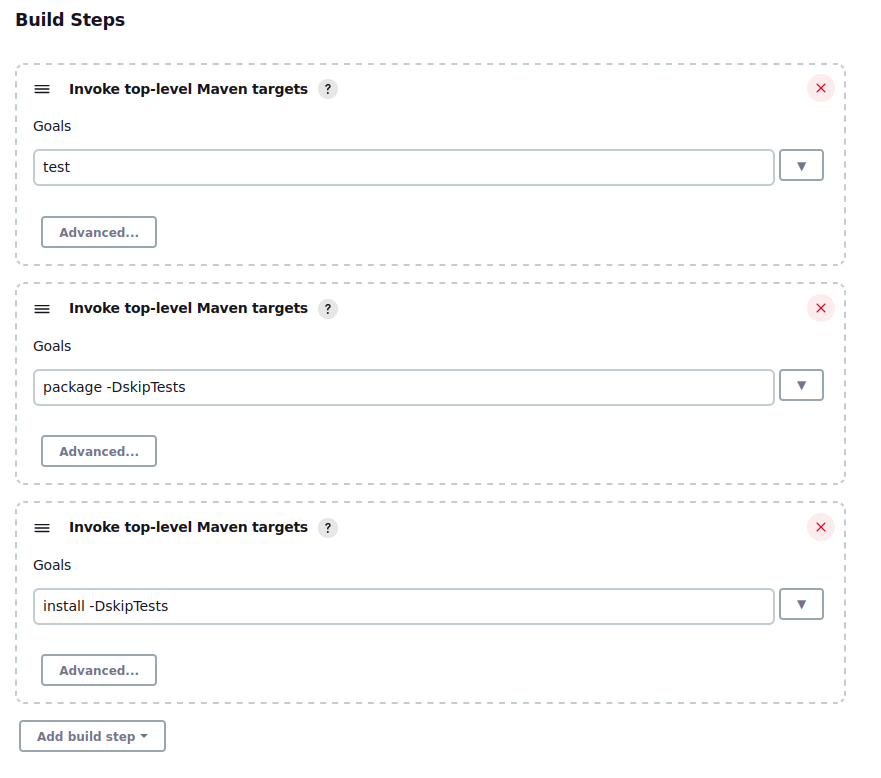
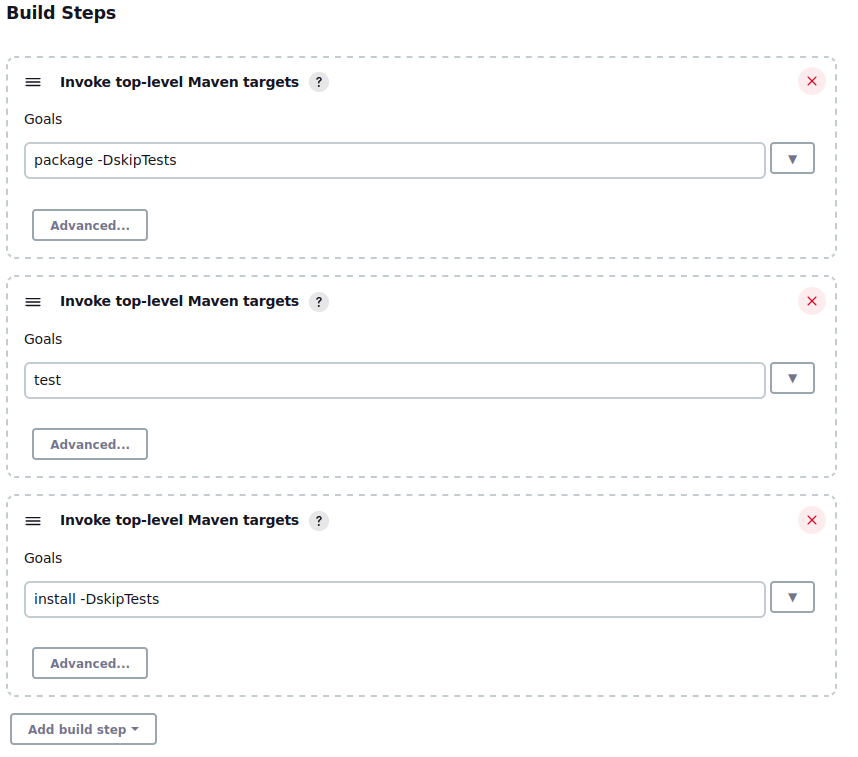
Adding exact translation jenkins maven example
Updating screenshots in example

diff --git a/doc/ci/migration/examples/jenkins-maven.md b/doc/ci/migration/examples/jenkins-maven.md
@@ -56,15 +56,19 @@ If using a declarative pipeline, the configuration might look like:
 ```groovy
 pipeline {
     agent any
+    tools {
+        maven 'maven-3.6.3'
+        jdk 'jdk11'
+    }
     stages {
-        stage('Test') {
-            steps {
-                sh "mvn test"
-            }
-        }
         stage('Build') {
             steps {
                 sh "mvn package -DskipTests"
+            }
+        }
+        stage('Test') {
+            steps {
+                sh "mvn test"
             }
         }
         stage('Install') {
@@ -88,22 +92,84 @@ with the same pipeline configuration.
 
 Prerequisites:
 
-- A GitLab Runner with the Docker executor that can be used by the project.
-  If you are using GitLab.com, you can use the public shared runners.
+- A GitLab Runner with a Shell executor
+- Maven 3.6.3 and Java 11 JDK installed on the shell runner
+
+This example mimics the behavior and syntax of building, testing, and installing on Jenkins.
+
+In a GitLab CI/CD pipeline, the commands run in "jobs", which are grouped into stages.
+The migrated configuration in the `.gitlab-ci.yml` configuration file consists of
+two global keywords (`stages` and `variables`) followed by 3 jobs:
+
+```yaml
+stages:
+  - build
+  - test
+  - install
+
+variables:
+  MAVEN_OPTS: >-
+    -Dhttps.protocols=TLSv1.2
+    -Dmaven.repo.local=$CI_PROJECT_DIR/.m2/repository
+  MAVEN_CLI_OPTS: >-
+    -DskipTests
+
+build-JAR:
+  stage: build
+  script:
+    - mvn $MAVEN_CLI_OPTS package
+
+test-code:
+  stage: test
+  script:
+    - mvn test
+
+install-JAR:
+  stage: install
+  script:
+    - mvn $MAVEN_CLI_OPTS install
+```
+
+In this example:
+
+- `stages` defines three stages that run in order. Like the Jenkins examples above,
+  the test job runs first, followed by the build job, and finally the install job.
+- `variables` defines [CI/CD variables](../../variables/index.md) that can be used by all jobs:
+  - `MAVEN_OPTS` are Maven environment variables needed whenever Maven is executed:
+    - `-Dhttps.protocols=TLSv1.2` sets the TLS protocol to version 1.2 for any HTTP requests in the pipeline.
+    - `-Dmaven.repo.local=$CI_PROJECT_DIR/.m2/repository` sets the location of the
+      local Maven repository to the GitLab project directory on the runner, so the job
+      can access and modify the repository.
+  - `MAVEN_CLI_OPTS` are specific arguments to be added to `mvn` commands:
+    - `-DskipTests` skips the `test` stage in the Maven build lifecycle.
+- `test-code`, `build-JAR`, and `install-JAR` are the user-defined names for the jobs
+  to run in the pipeline:
+  - `stage` defines which stage the job runs in. A pipeline contains one or more stages
+    and a stage contains one or more jobs. This example has three stages, each with a single job.
+  - `script` defines the commands to run in that job, similar to `steps` in a `Jenkinsfile`.
+    Jobs can run multiple commands in sequence, which run in the image container,
+    but in this example the jobs run only one command each.
+
+### Run jobs in Docker containers
 
 Instead of using a persistent machine for handling this build process like the Jenkins samples,
 this example uses an ephemeral Docker container to handle execution. Using a container
 removes the need for maintaining a virtual machine and the Maven version installed on it.
 It also increases flexibility for expanding and extending the functionality of the pipeline.
 
-In a GitLab CI/CD pipeline, the commands run in "jobs", which are grouped into stages.
-The migrated configuration in the `.gitlab-ci.yml` configuration file consists of
-three global keywords (`stages`, `default`, and `variables`) followed by 3 jobs:
+Prerequisites:
+
+- A GitLab Runner with the Docker executor that can be used by the project.
+  If you are using GitLab.com, you can use the public shared runners.
+
+This migrated pipeline configuration consists of three global keywords (`stages`, `default`, and `variables`)
+followed by 3 jobs. This configuration makes use of additional GitLab CI/CD features
+for an improved pipeline compared to the [example above](#convert-jenkins-configuration-to-gitlab-cicd):
 
 ```yaml
 stages:
-  - test
   - build
+  - test
   - install
 
 default:
@@ -120,15 +186,15 @@ variables:
   MAVEN_CLI_OPTS: >-
     -DskipTests
 
-test-code:
-  stage: test
-  script:
-    - mvn test
-
 build-JAR:
   stage: build
   script:
     - mvn $MAVEN_CLI_OPTS package
+
+test-code:
+  stage: test
+  script:
+    - mvn test
 
 install-JAR:
   stage: install
